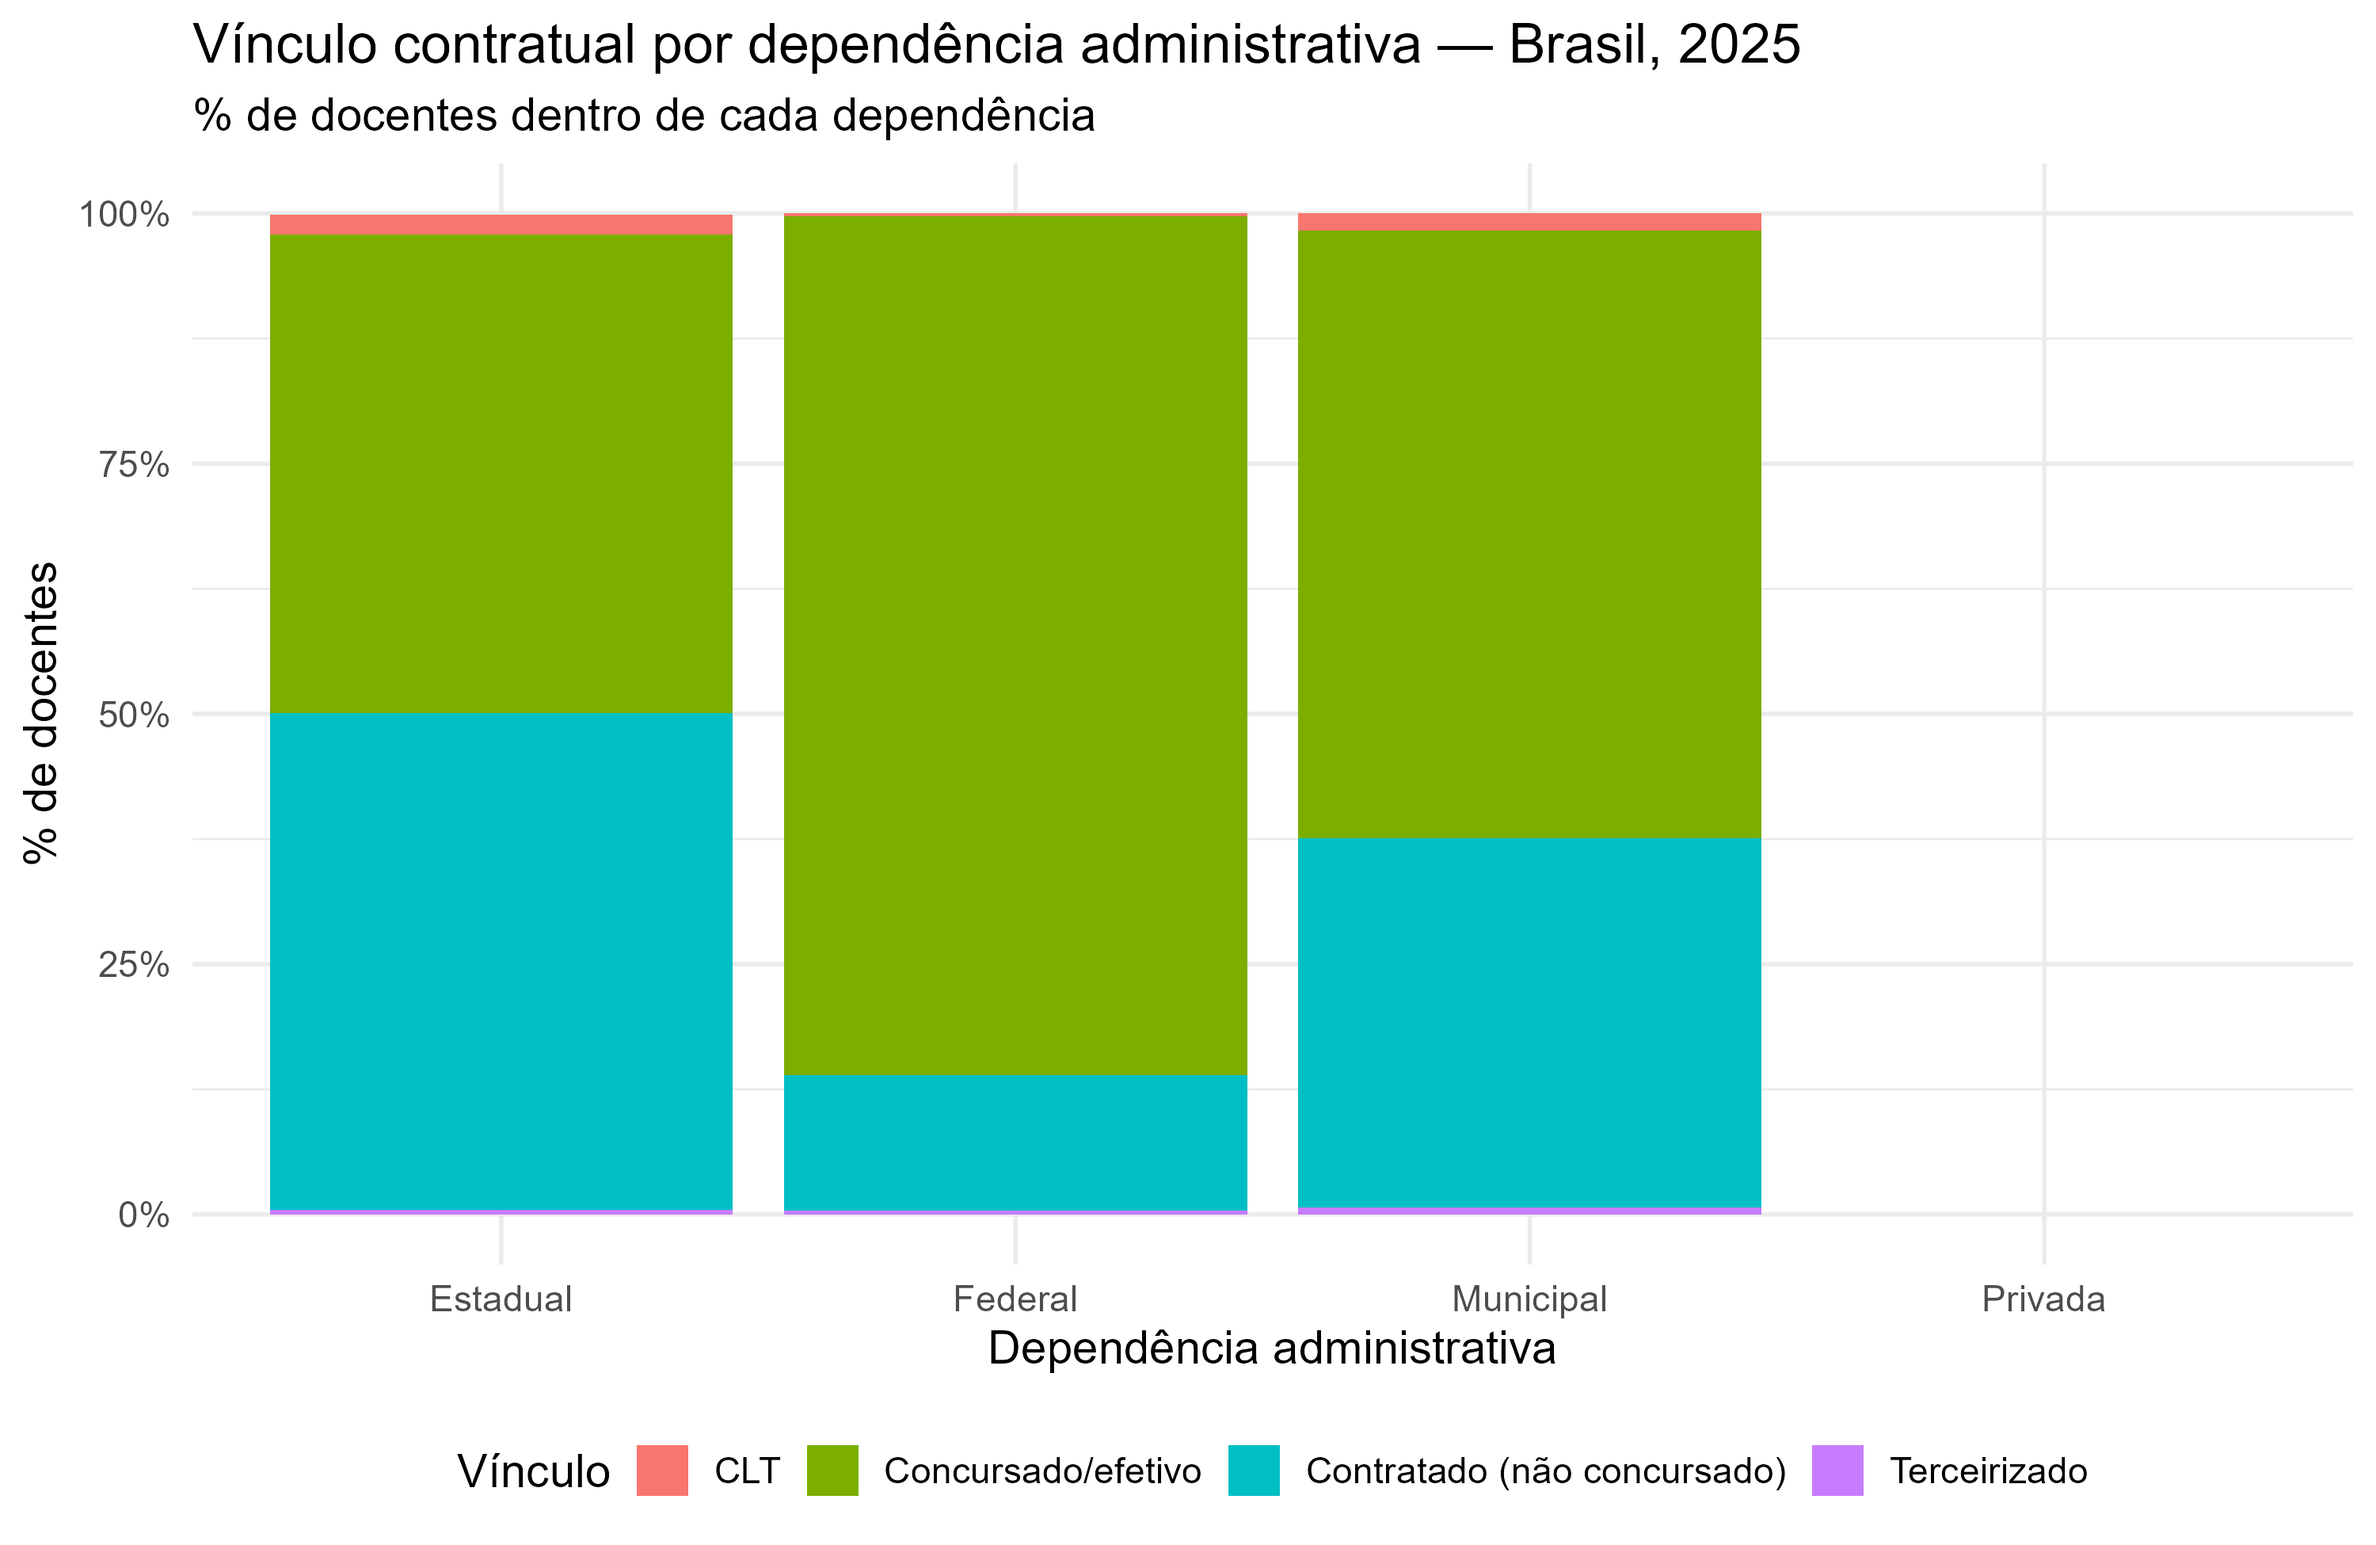
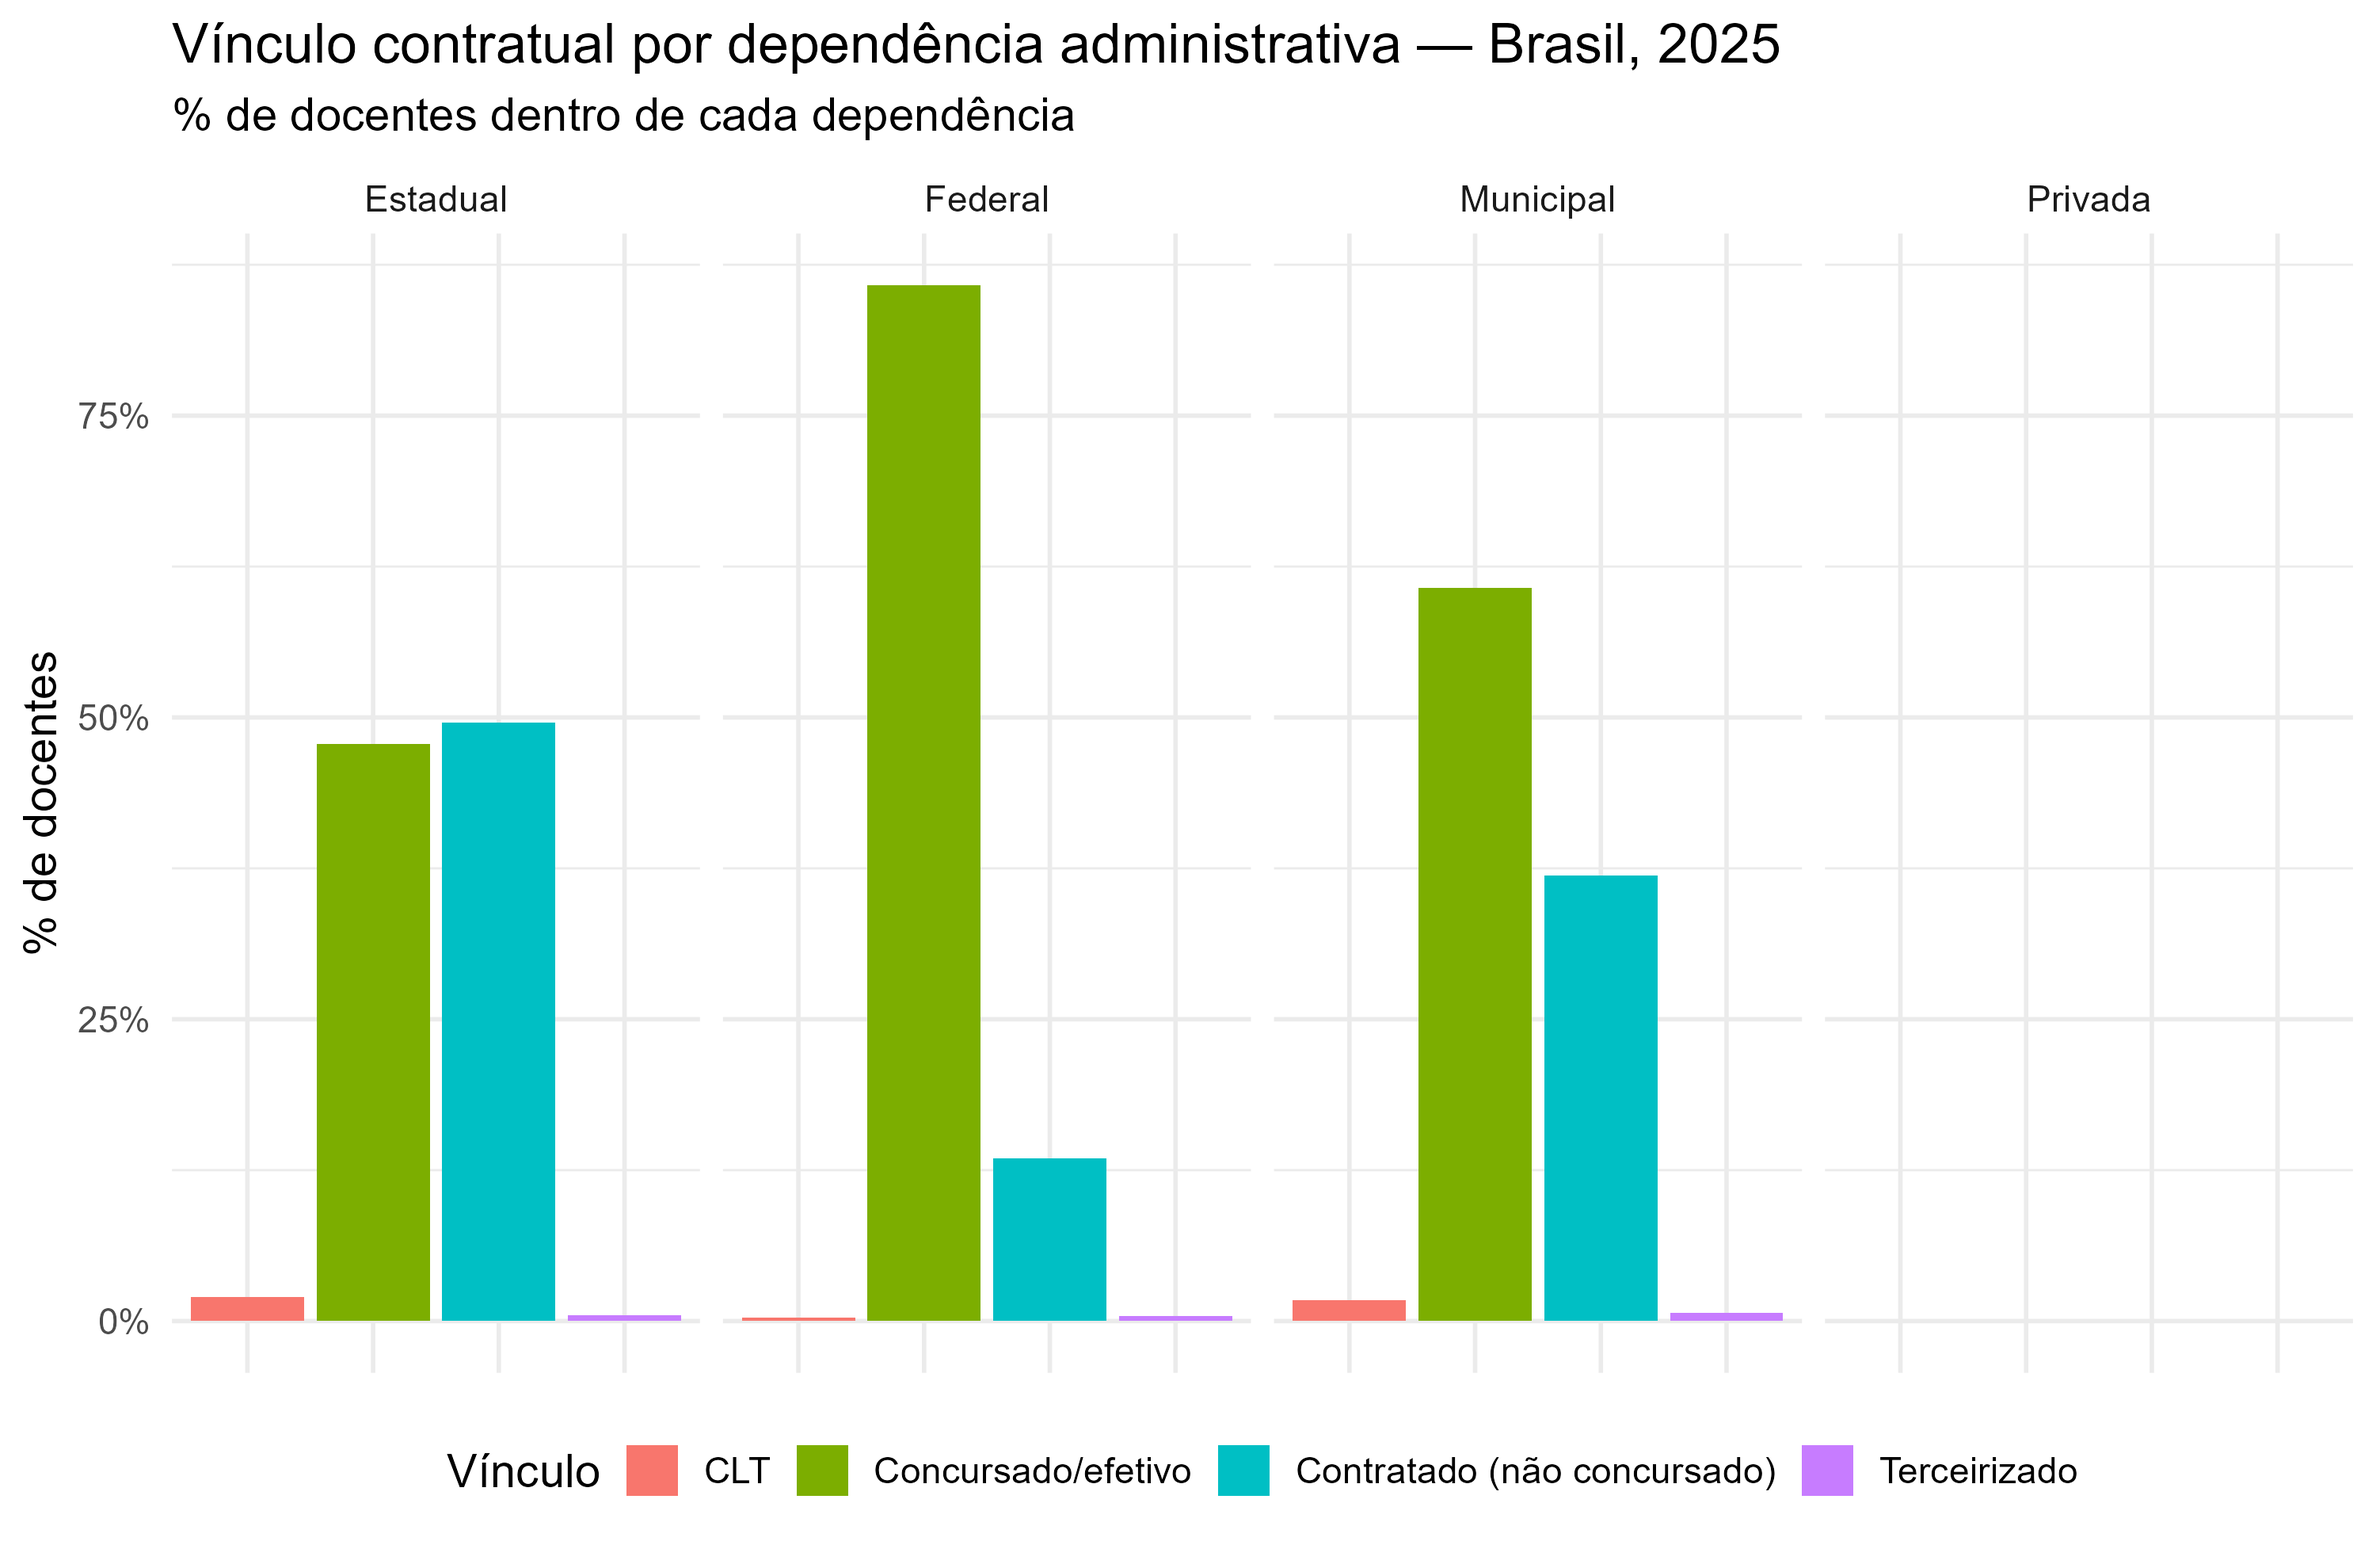
Adiciona rankings, boxplot e painel-resumo executivo (04_analises_avancadas.R)
Tres novas analises pedidas para tornar a apresentacao mais atrativa:
  - Grafico 11: top/bottom 10 municipios por % de contratados (corte de
    30 docentes minimos para evitar ruido de amostra pequena)
  - Grafico 12: ranking completo das 27 UFs, com a media nacional
    marcada por uma linha
  - Grafico 13: boxplot da % de contratados entre municipios, por UF
    (mostra a variabilidade que a media por UF esconde)
  - Grafico 14: painel-resumo executivo em uma unica imagem (patchwork),
    combinando numeros-chave, mapa por UF e top-5 UFs

Inclui tambem os outputs atualizados gerados pela execucao do pipeline
(graficos 03 e 06-10 e as tabelas de cruzamento novas), confirmando que
os scripts anteriores rodam de ponta a ponta.

diff --git a/README.md b/README.md
@@ -27,6 +27,12 @@ Por isso:
 
 Nível do painel: **escola × ano** (`CO_ENTIDADE` × `NU_ANO_CENSO`).
 
+Os rankings e o boxplot por município (`04_analises_avancadas.R`)
+consideram apenas municípios com pelo menos **30 docentes** no total
+(`MIN_DOCENTES`, parâmetro no início do script) — municípios muito
+pequenos podem ter, por exemplo, 1 docente contratado em 2, o que dá
+50% e distorce o ranking sem significado real.
+
 ## Estrutura do projeto
 
 ```
@@ -37,7 +43,8 @@ censo_docentes_vinculo/
 │   ├── 00_setup.R                 # pacotes, caminhos, variáveis de interesse
 │   ├── 01_importar_docentes.R     # lê 2015-2025 e monta o painel escola x ano
 │   ├── 02_distribuicoes.R         # gera as tabelas-resumo (Brasil)
-│   └── 03_visualizacoes.R         # gráficos ggplot2 e mapas (UF e município)
+│   ├── 03_visualizacoes.R         # gráficos ggplot2 e mapas (UF e município)
+│   └── 04_analises_avancadas.R    # ranking, boxplot e painel-resumo executivo
 ├── data/
 │   ├── raw/                       # microdados brutos (NÃO versionado — ver README nesta pasta)
 │   └── processed/                 # painel consolidado (NÃO versionado, gerado localmente)
@@ -57,6 +64,7 @@ censo_docentes_vinculo/
    source("R/01_importar_docentes.R")
    source("R/02_distribuicoes.R")
    source("R/03_visualizacoes.R")
+   source("R/04_analises_avancadas.R")
    ```
 
 Os mapas (`03_visualizacoes.R`) usam o pacote `geobr`, que baixa a malha
@@ -89,6 +97,8 @@ pode levar alguns minutos na primeira execução.
   contratados, por UF, 2025.
 - `outputs/tables/dist_docentes_municipio_2025.csv` — o mesmo, por
   município, 2025.
+- `outputs/tables/dist_docentes_municipio_nomeado_2025.csv` — o mesmo,
+  por município, com nome do município e UF (usado nos rankings).
 - `outputs/figures/01_docentes_por_etapa_2015_2025.png` — evolução do
   total de docentes por etapa, 2015-2025.
 - `outputs/figures/02_docentes_por_vinculo_2025.png` — distribuição por
@@ -112,6 +122,17 @@ pode levar alguns minutos na primeira execução.
   com um painel por localização urbana/rural, 2015-2025.
 - `outputs/figures/10_vinculo_por_regiao_2025.png` — vínculo contratual
   por região geográfica, 2025 (barras agrupadas por facet).
+- `outputs/figures/11_ranking_municipios_contratados_2025.png` — os 10
+  municípios com maior e os 10 com menor % de contratados, 2025 (só
+  municípios com pelo menos 30 docentes).
+- `outputs/figures/12_ranking_uf_contratados_2025.png` — ranking
+  completo das 27 UFs por % de contratados, com a média nacional
+  marcada, 2025.
+- `outputs/figures/13_boxplot_contratados_por_uf_2025.png` — boxplot da
+  % de contratados entre os municípios de cada UF, 2025.
+- `outputs/figures/14_painel_resumo_executivo_2025.png` — painel único
+  (via `patchwork`) com os números-chave, o mapa por UF e o top-5 de
+  UFs — pensado para abrir uma apresentação/relatório.
 
 ## Dependências
 
@@ -119,6 +140,7 @@ pode levar alguns minutos na primeira execução.
 - [`data.table`](https://cran.r-project.org/package=data.table)
 - [`ggplot2`](https://cran.r-project.org/package=ggplot2), [`scales`](https://cran.r-project.org/package=scales)
 - [`geobr`](https://cran.r-project.org/package=geobr), [`sf`](https://cran.r-project.org/package=sf) — malhas geográficas para os mapas
+- [`patchwork`](https://cran.r-project.org/package=patchwork) — monta o painel-resumo executivo a partir de vários gráficos
 
 ## Fonte dos dados
 
